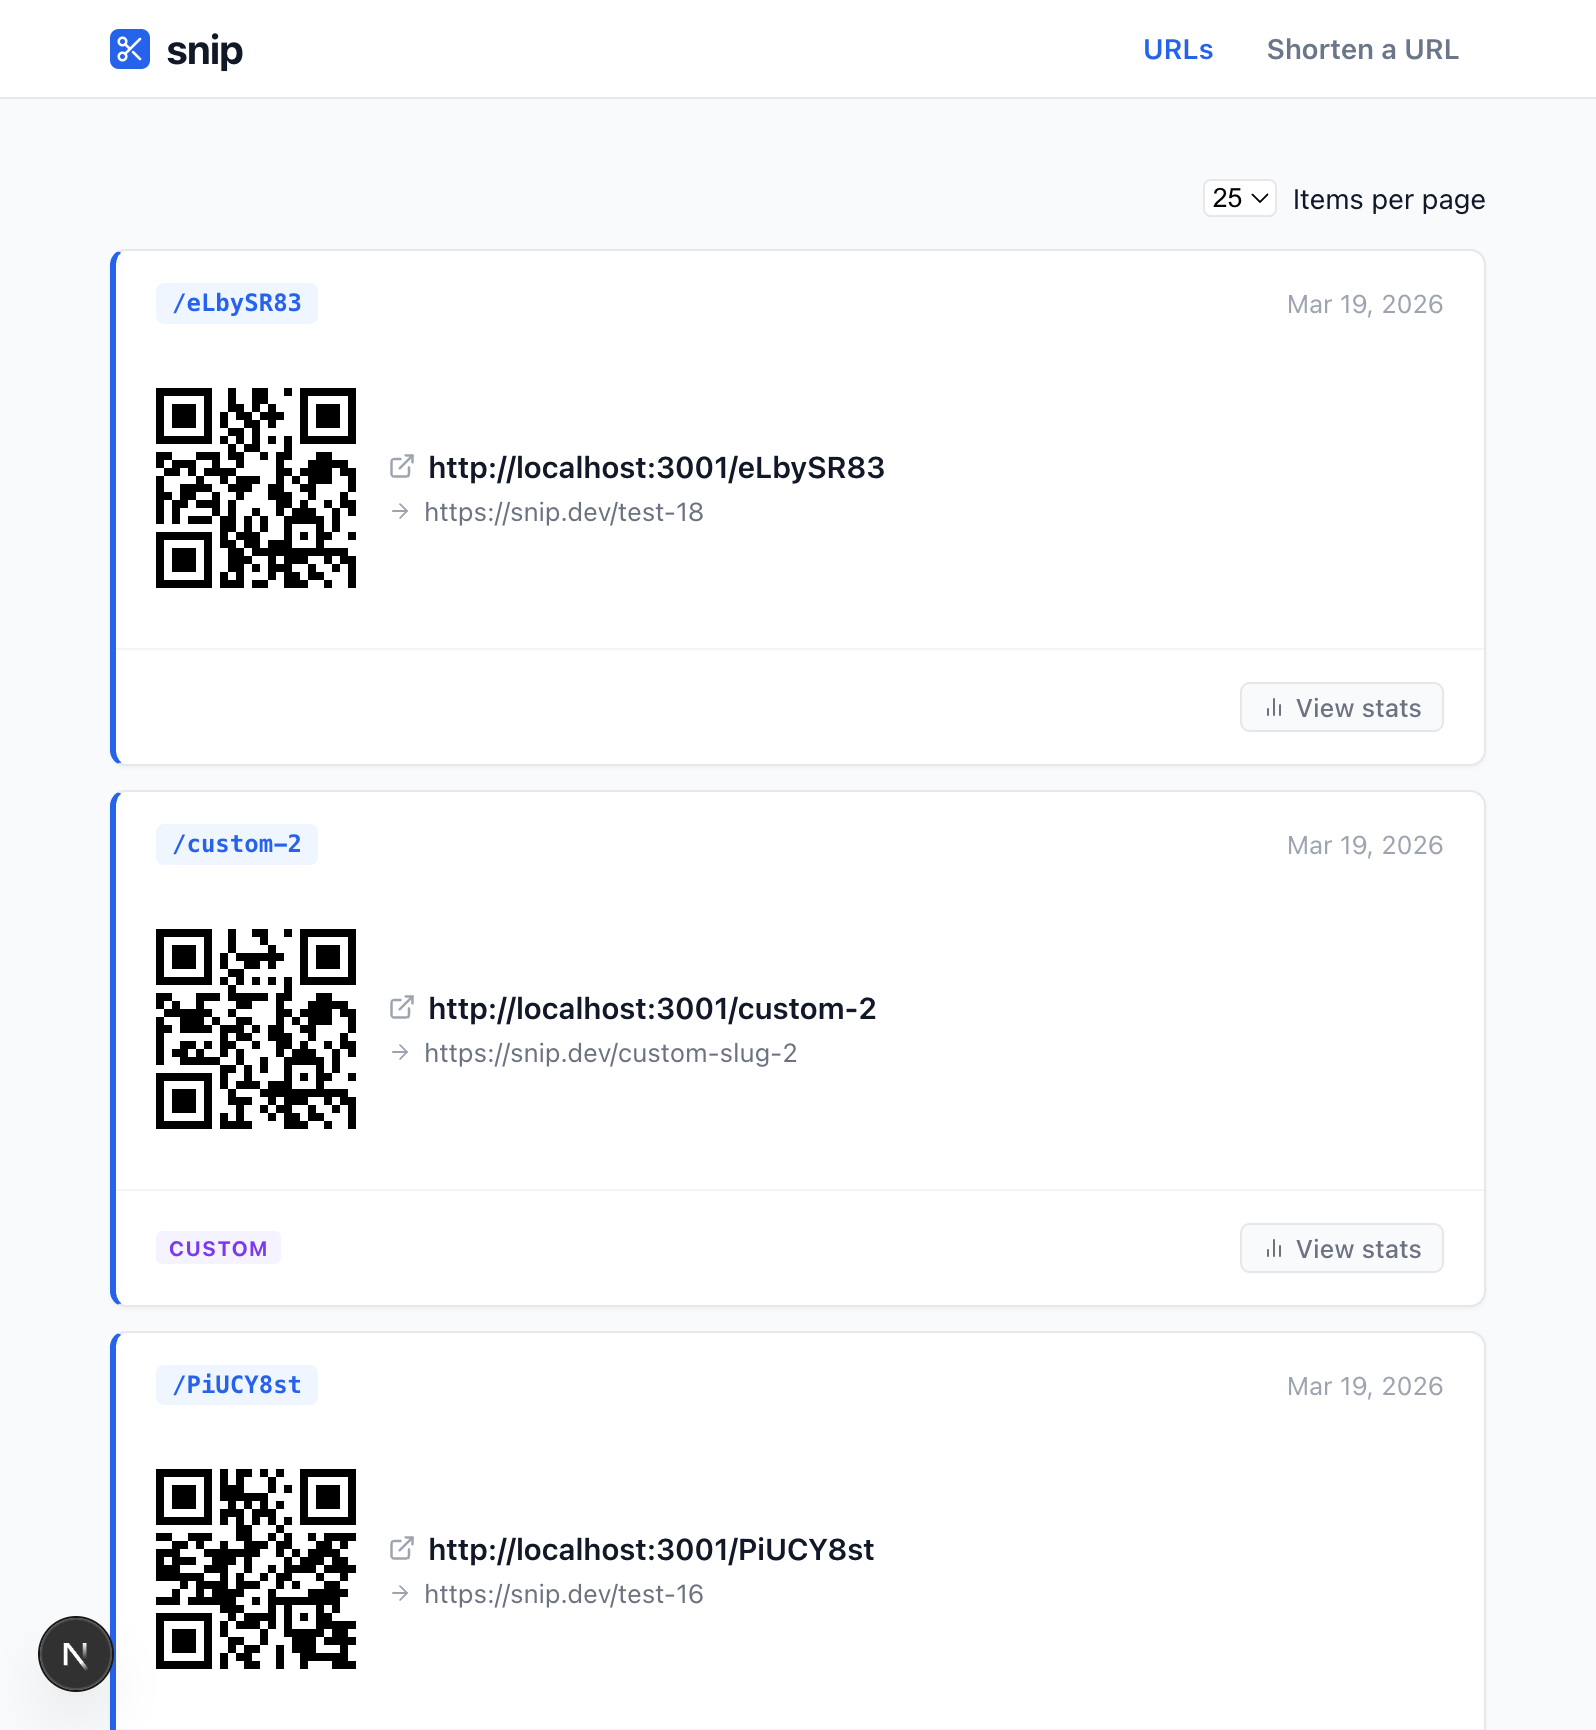
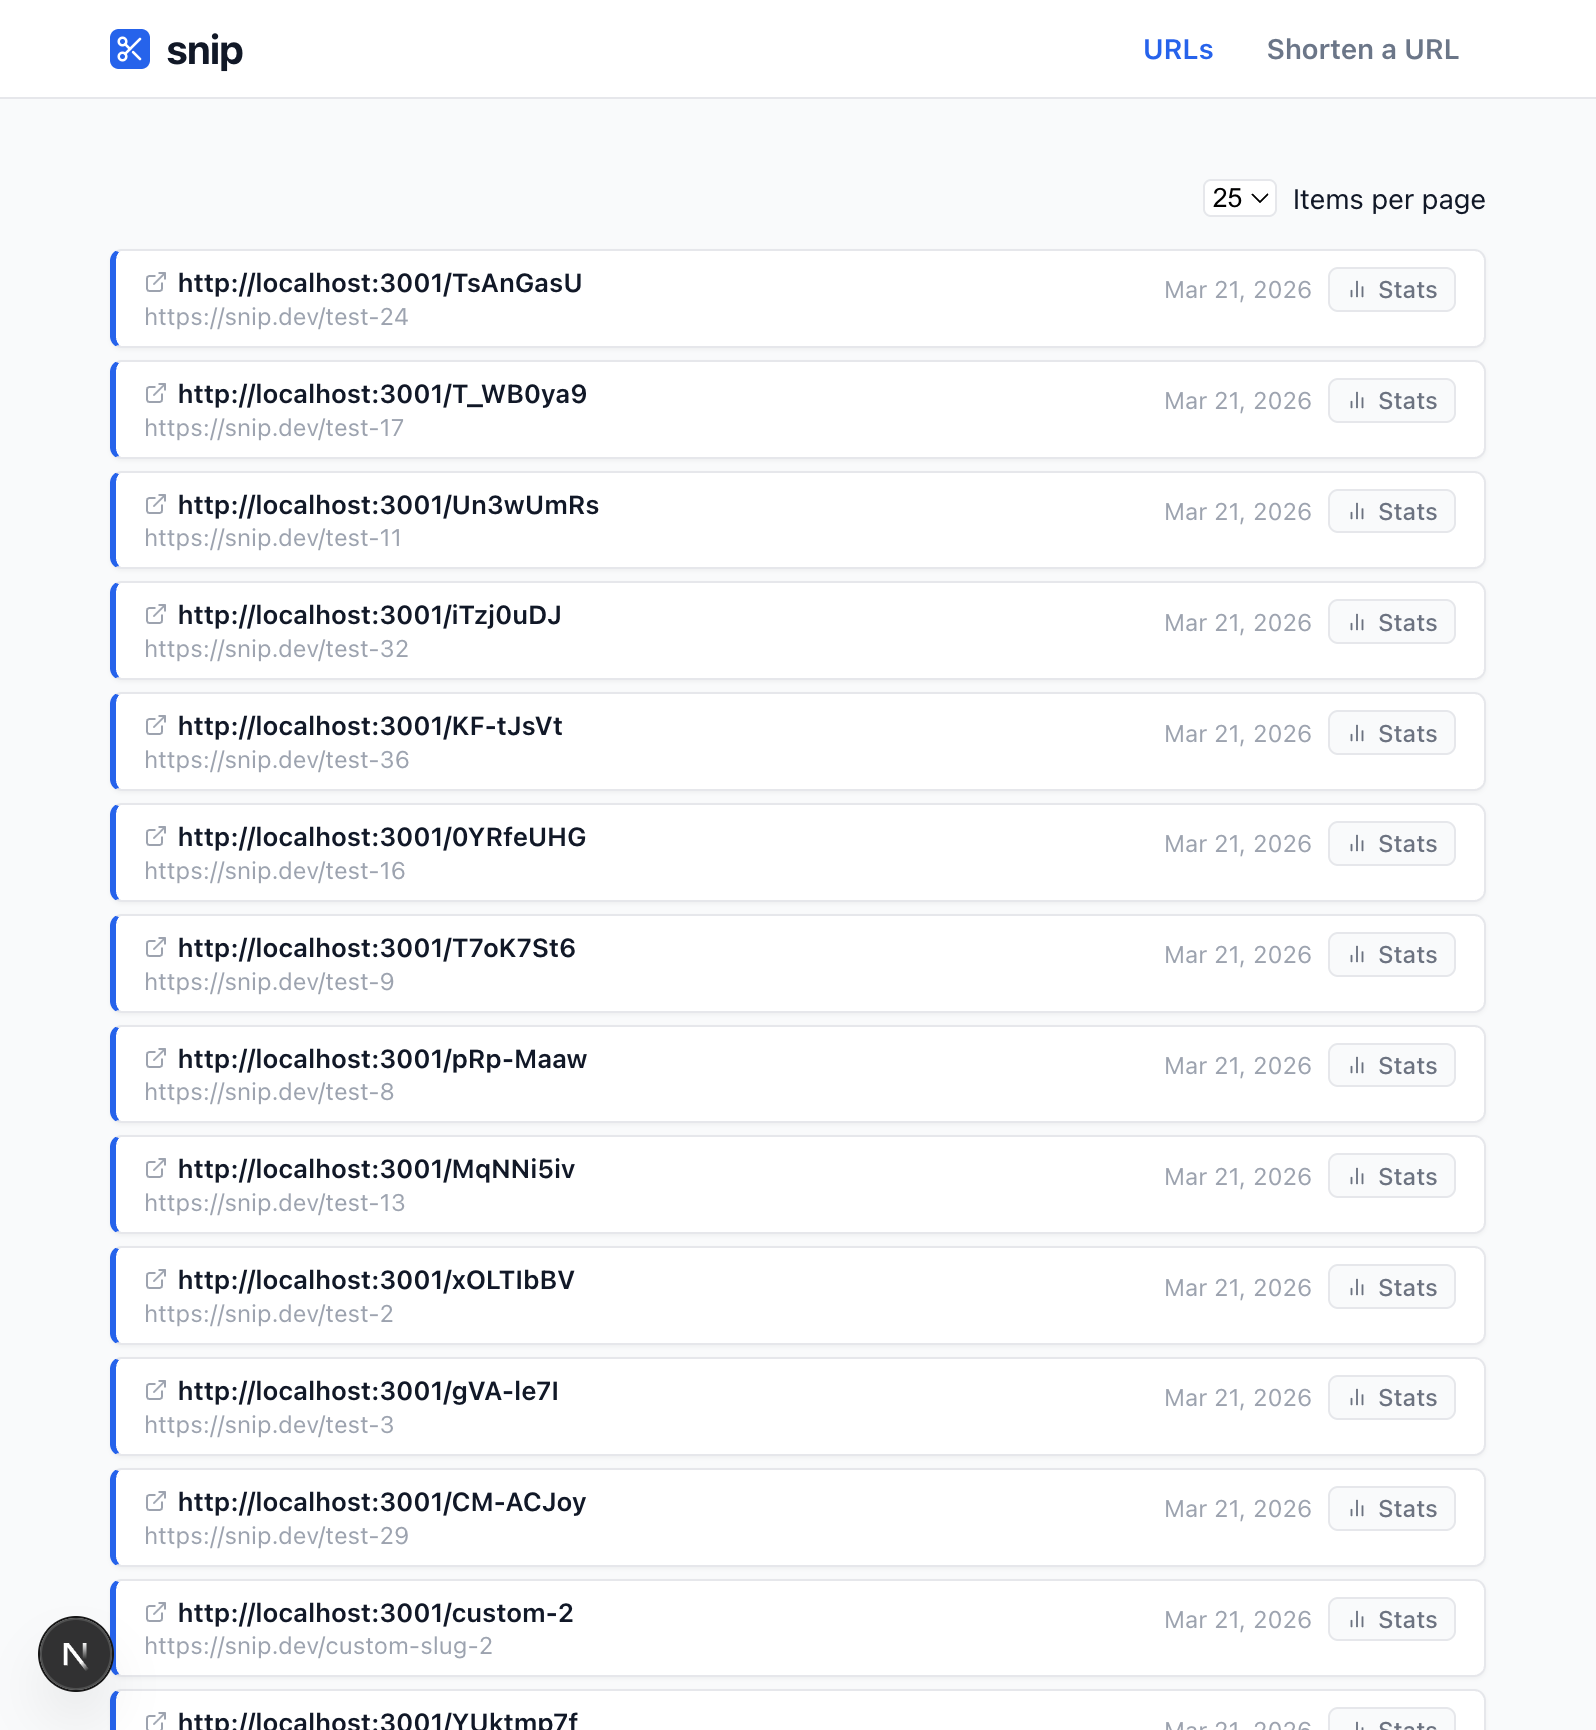
refactor: improve urls list ui

diff --git a/apps/web/src/components/UrlsView/Table.tsx b/apps/web/src/components/UrlsView/Table.tsx
@@ -2,18 +2,17 @@
 
 import { type UrlListRecord } from '@snip/types'
 import Link from 'next/link'
-import { QRCodeCanvas } from 'qrcode.react'
 import styled from 'styled-components'
 
 const Wrapper = styled.div`
   display: flex;
   flex-direction: column;
-  gap: 0.75rem;
+  gap: 0.375rem;
   margin-bottom: 1.5rem;
 `
 
 const Card = styled.div`
-  border-radius: 8px;
+  border-radius: 6px;
   background-color: #fff;
   border: 1px solid #e5e7eb;
   border-left: 3px solid #2563eb;
@@ -29,37 +28,19 @@ const Card = styled.div`
   }
 `
 
-const CardHeader = styled.div`
+const CardRow = styled.div`
   display: flex;
-  flex-direction: column;
-  justify-content: space-between;
-  gap: 1rem;
-  padding: 1rem 1.25rem;
-
-  @media (min-width: 480px) {
-    flex-direction: row;
-    align-items: center;
-  }
+  align-items: flex-start;
+  gap: 0.75rem;
+  padding: 0.5rem 0.875rem;
 `
 
-const SlugBadge = styled.div`
-  display: inline-flex;
-  align-self: flex-start;
-  font-size: 0.75rem;
-  font-weight: 600;
-  color: #2563eb;
-  background: #eff6ff;
-  padding: 0.2rem 0.5rem;
-  border-radius: 4px;
-  font-family: ui-monospace, 'Cascadia Code', 'Source Code Pro', monospace;
-  flex-shrink: 0;
-`
-
-const CustomBadge = styled.span`
+const ExpiredBadge = styled.span`
   font-size: 0.65rem;
   font-weight: 700;
-  color: #7c3aed;
-  background: #f5f3ff;
+  color: #b45309;
+  background: #fff3e0;
+  border: 1px solid #ed6c02;
   padding: 0.15rem 0.4rem;
   border-radius: 3px;
   letter-spacing: 0.04em;
@@ -67,58 +48,30 @@ const CustomBadge = styled.span`
   flex-shrink: 0;
 `
 
-const Dates = styled.div`
-  font-size: 0.8rem;
-  color: #9ca3af;
-  white-space: nowrap;
-  flex-shrink: 0;
-`
-
-const ExpiredBanner = styled.div`
-  background-color: #fff3e0;
-  border: 1px solid #ed6c02;
-  border-radius: 6px;
-  color: #b45309;
-  padding: 0.625rem 0.875rem;
-  font-size: 0.8125rem;
-  margin: 1rem 1.25rem 1.25rem;
-`
-
-const CardDetails = styled.div`
-  display: flex;
-  flex-direction: column;
-  gap: 1rem;
-  padding: 1rem 1.25rem;
-
-  @media (min-width: 480px) {
-    flex-direction: row;
-    align-items: center;
-  }
-`
-
-const QRCode = styled(QRCodeCanvas)`
-  margin: 0 auto;
-`
-
 const CardUrls = styled.div`
   flex: 1;
   min-width: 0;
+  display: flex;
+  flex-direction: column;
+  align-items: flex-start;
+  gap: 0.15rem;
 `
 
 const ShortLink = styled.a`
   display: inline-flex;
-  gap: 0.375rem;
+  align-items: center;
+  gap: 0.3rem;
   color: #111827;
   font-weight: 600;
-  font-size: 0.9375rem;
-  margin-bottom: 0.375rem;
+  font-size: 0.8125rem;
   text-decoration: none;
+  white-space: nowrap;
+  flex-shrink: 0;
 
   svg {
     color: #9ca3af;
     flex-shrink: 0;
     transition: color 0.1s ease;
-    margin-top: 0.1rem;
   }
 
   &:hover {
@@ -129,58 +82,45 @@ const ShortLink = styled.a`
   }
 `
 
-const Destination = styled.div`
-  display: flex;
-  align-items: center;
-  gap: 0.375rem;
-  font-size: 0.8125rem;
+const DestinationLink = styled.a`
+  font-size: 0.75rem;
   color: #9ca3af;
-  overflow: hidden;
+  text-decoration: none;
+  word-break: break-all;
 
-  a {
-    color: #6b7280;
-    overflow: hidden;
-    text-overflow: ellipsis;
-    white-space: nowrap;
-    min-width: 0;
-    flex: 1;
-    text-decoration: none;
-
-    &:hover {
-      color: #2563eb;
-      text-decoration: underline;
-    }
+  &:hover {
+    color: #2563eb;
+    text-decoration: underline;
   }
 `
 
-const CardFooter = styled.div`
+const CardMeta = styled.div`
   display: flex;
   align-items: center;
-  justify-content: space-between;
-  margin-top: 0.875rem;
-  padding-top: 0.75rem;
-  border-top: 1px solid #f3f4f6;
-  padding: 1rem 1.25rem;
+  gap: 0.5rem;
+  flex-shrink: 0;
 `
 
-const CardActions = styled.div`
-  flex: 1;
-  text-align: right;
+const DateLabel = styled.span`
+  font-size: 0.75rem;
+  color: #9ca3af;
+  white-space: nowrap;
 `
 
 const ViewStatsLink = styled(Link)`
   display: inline-flex;
   align-items: center;
   gap: 0.3rem;
-  font-size: 0.8rem;
+  font-size: 0.75rem;
   font-weight: 500;
   color: #6b7280;
-  padding: 0.25rem 0.625rem;
+  padding: 0.2rem 0.5rem;
   border-radius: 5px;
   border: 1px solid #e5e7eb;
   background: #f9fafb;
   text-decoration: none;
   transition: all 0.15s ease;
+  white-space: nowrap;
 
   &:hover {
     color: #2563eb;
@@ -197,20 +137,9 @@ function UrlCard({ url }: { url: UrlListRecord }) {
 
   return (
     <Card>
-      <CardHeader>
-        <SlugBadge>/{url.slug}</SlugBadge>
-        <Dates>
-          {url.expiresAt && !isExpired && <>Expires {expiresAtFormatted} · </>}
-          {new Date(url.createdAt).toLocaleDateString('en-US', { dateStyle: 'medium' })}
-        </Dates>
-      </CardHeader>
+      <CardRow>
+        {isExpired && <ExpiredBadge title={`Expired ${expiresAtFormatted}`}>expired</ExpiredBadge>}
 
-      {isExpired && (
-        <ExpiredBanner>Expired {expiresAtFormatted} — now returns 410 Gone.</ExpiredBanner>
-      )}
-
-      <CardDetails>
-        <QRCode size={100} title={url.shortUrl} value={url.shortUrl} />
         <CardUrls>
           <ShortLink
             href={url.shortUrl}
@@ -221,8 +150,8 @@ function UrlCard({ url }: { url: UrlListRecord }) {
           >
             <svg
               xmlns="http://www.w3.org/2000/svg"
-              width="14"
-              height="14"
+              width="12"
+              height="12"
               viewBox="0 0 24 24"
               fill="none"
               stroke="currentColor"
@@ -236,44 +165,27 @@ function UrlCard({ url }: { url: UrlListRecord }) {
             </svg>
             {url.shortUrl}
           </ShortLink>
-
-          <Destination>
-            <svg
-              xmlns="http://www.w3.org/2000/svg"
-              width="12"
-              height="12"
-              viewBox="0 0 24 24"
-              fill="none"
-              stroke="currentColor"
-              strokeWidth="2"
-              strokeLinecap="round"
-              strokeLinejoin="round"
-              style={{ flexShrink: 0 }}
-            >
-              <path d="M5 12h14" />
-              <path d="m12 5 7 7-7 7" />
-            </svg>
-            <a
-              href={url.originalUrl}
-              title={url.originalUrl}
-              target="_blank"
-              rel="noopener noreferrer"
-              aria-label={`Open ${url.originalUrl}`}
-            >
-              {url.originalUrl}
-            </a>
-          </Destination>
+          <DestinationLink
+            href={url.originalUrl}
+            title={url.originalUrl}
+            target="_blank"
+            rel="noopener noreferrer"
+            aria-label={`Open ${url.originalUrl}`}
+          >
+            {url.originalUrl}
+          </DestinationLink>
         </CardUrls>
-      </CardDetails>
 
-      <CardFooter>
-        {url.customSlug && <CustomBadge>custom</CustomBadge>}
-        <CardActions>
+        <CardMeta>
+          <DateLabel>
+            {url.expiresAt && !isExpired && <>Expires {expiresAtFormatted} · </>}
+            {new Date(url.createdAt).toLocaleDateString('en-US', { dateStyle: 'medium' })}
+          </DateLabel>
           <ViewStatsLink href={`/stats/${url.slug}`}>
             <svg
               xmlns="http://www.w3.org/2000/svg"
-              width="12"
-              height="12"
+              width="11"
+              height="11"
               viewBox="0 0 24 24"
               fill="none"
               stroke="currentColor"
@@ -285,10 +197,10 @@ function UrlCard({ url }: { url: UrlListRecord }) {
               <line x1="12" y1="20" x2="12" y2="4" />
               <line x1="6" y1="20" x2="6" y2="14" />
             </svg>
-            View stats
+            Stats
           </ViewStatsLink>
-        </CardActions>
-      </CardFooter>
+        </CardMeta>
+      </CardRow>
     </Card>
   )
 }
